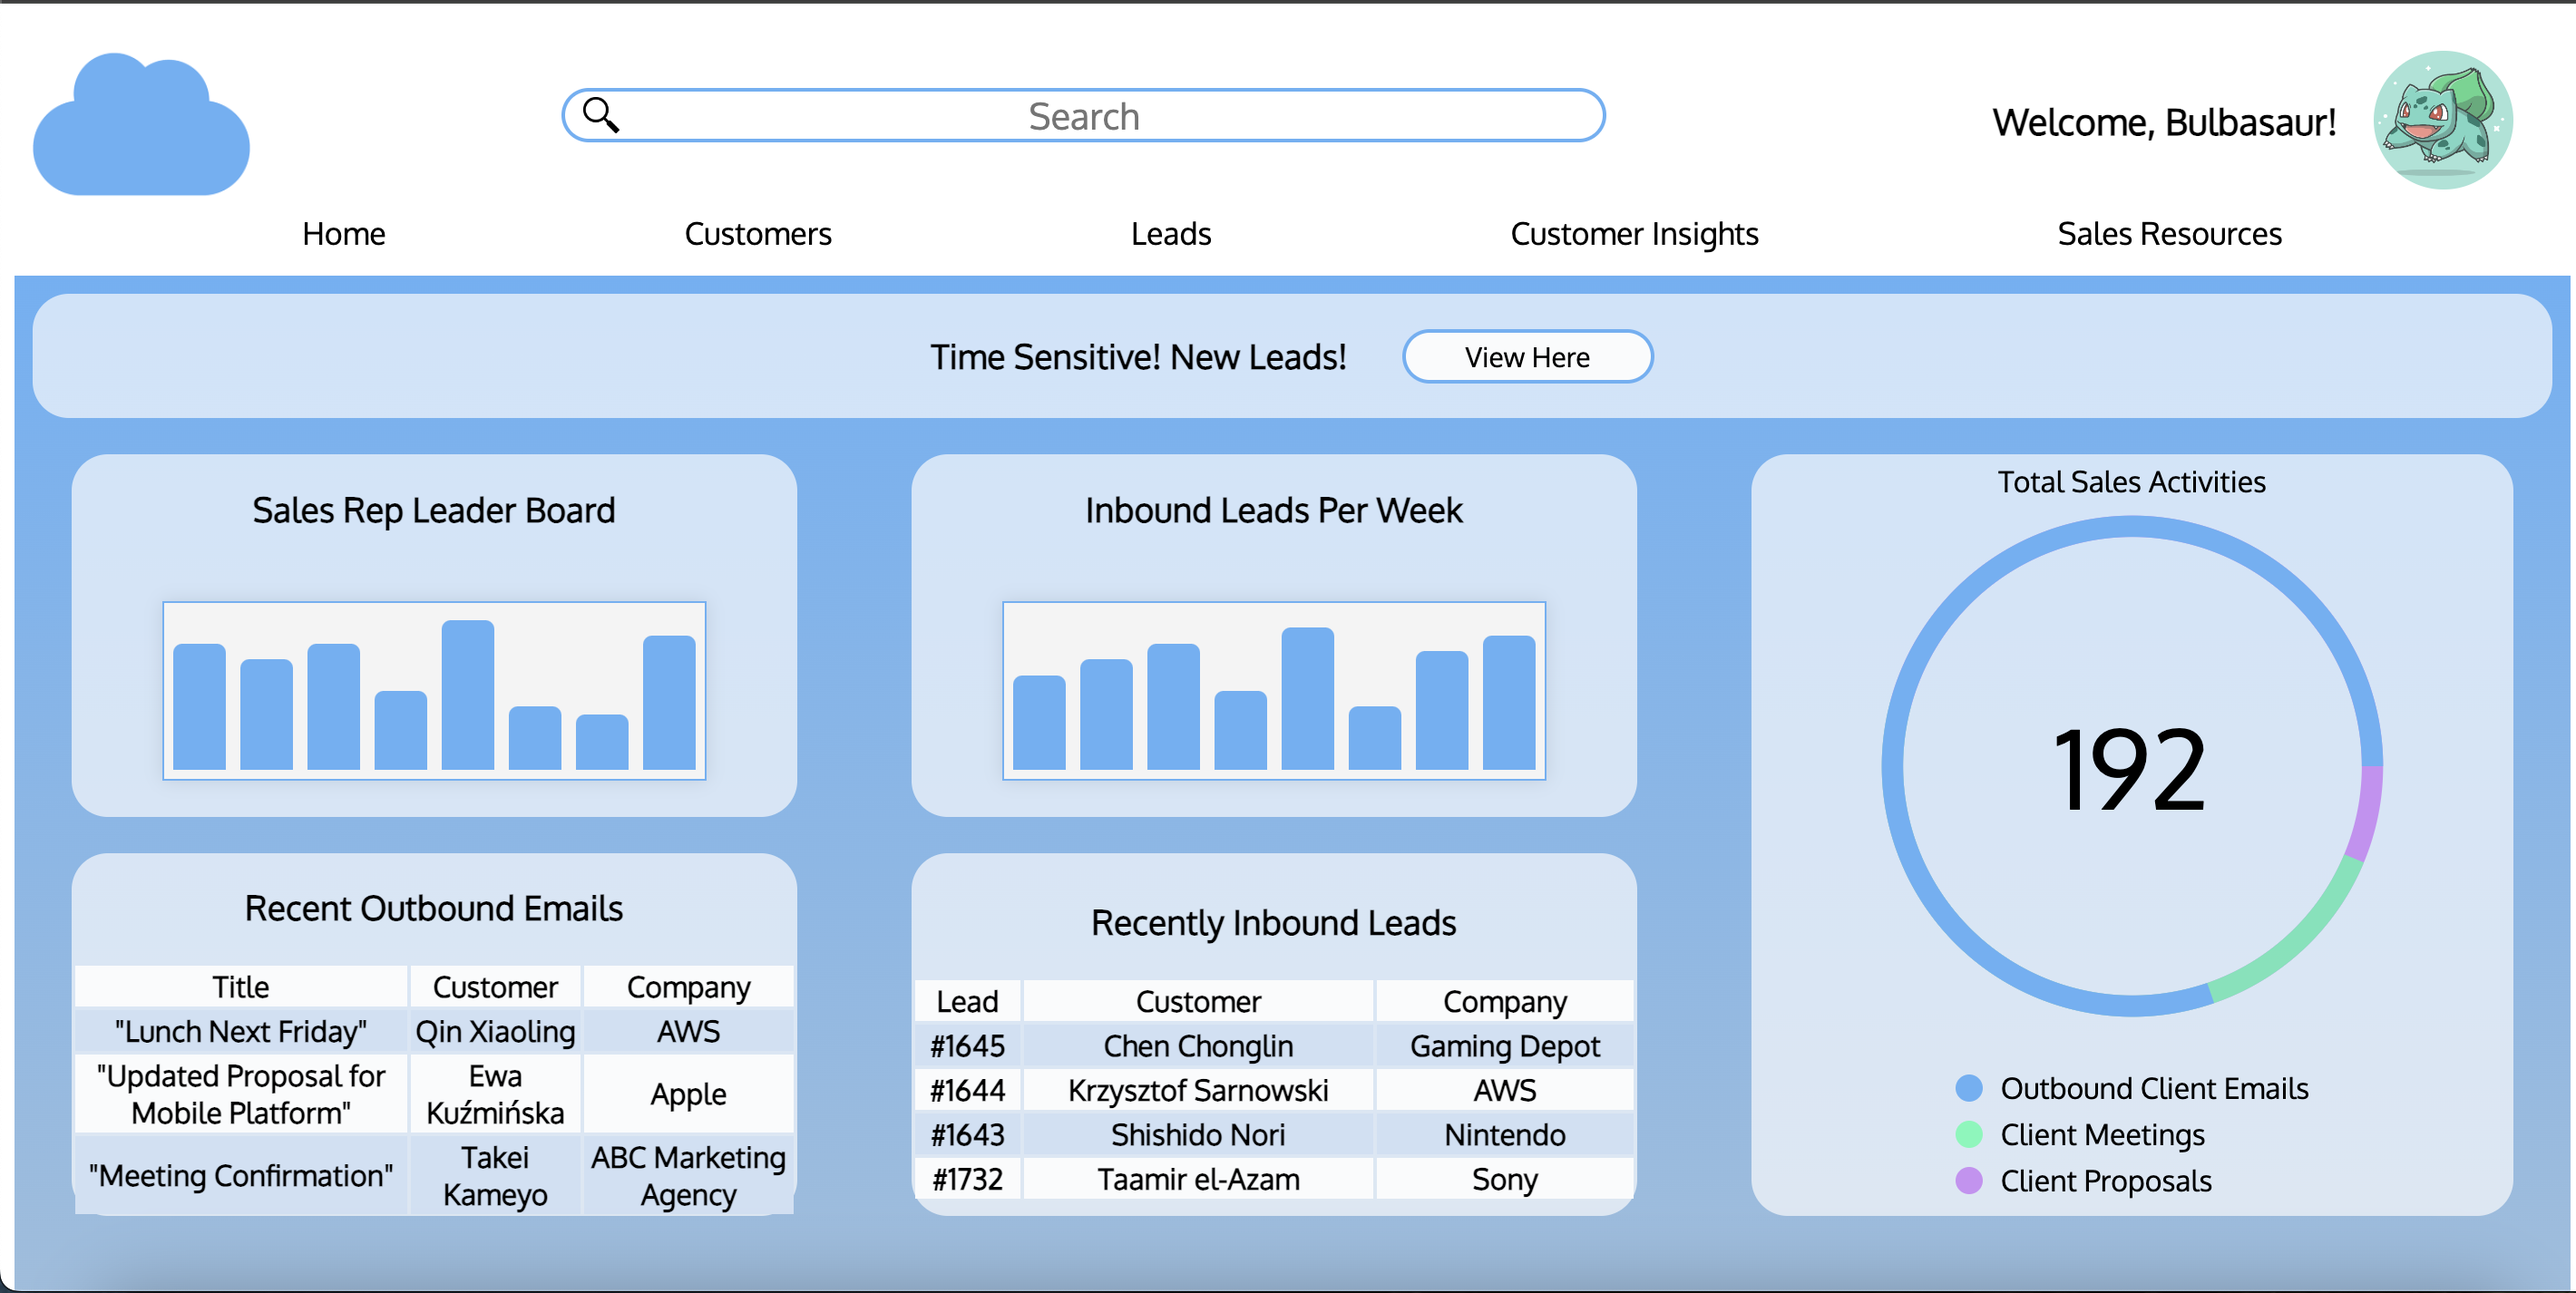
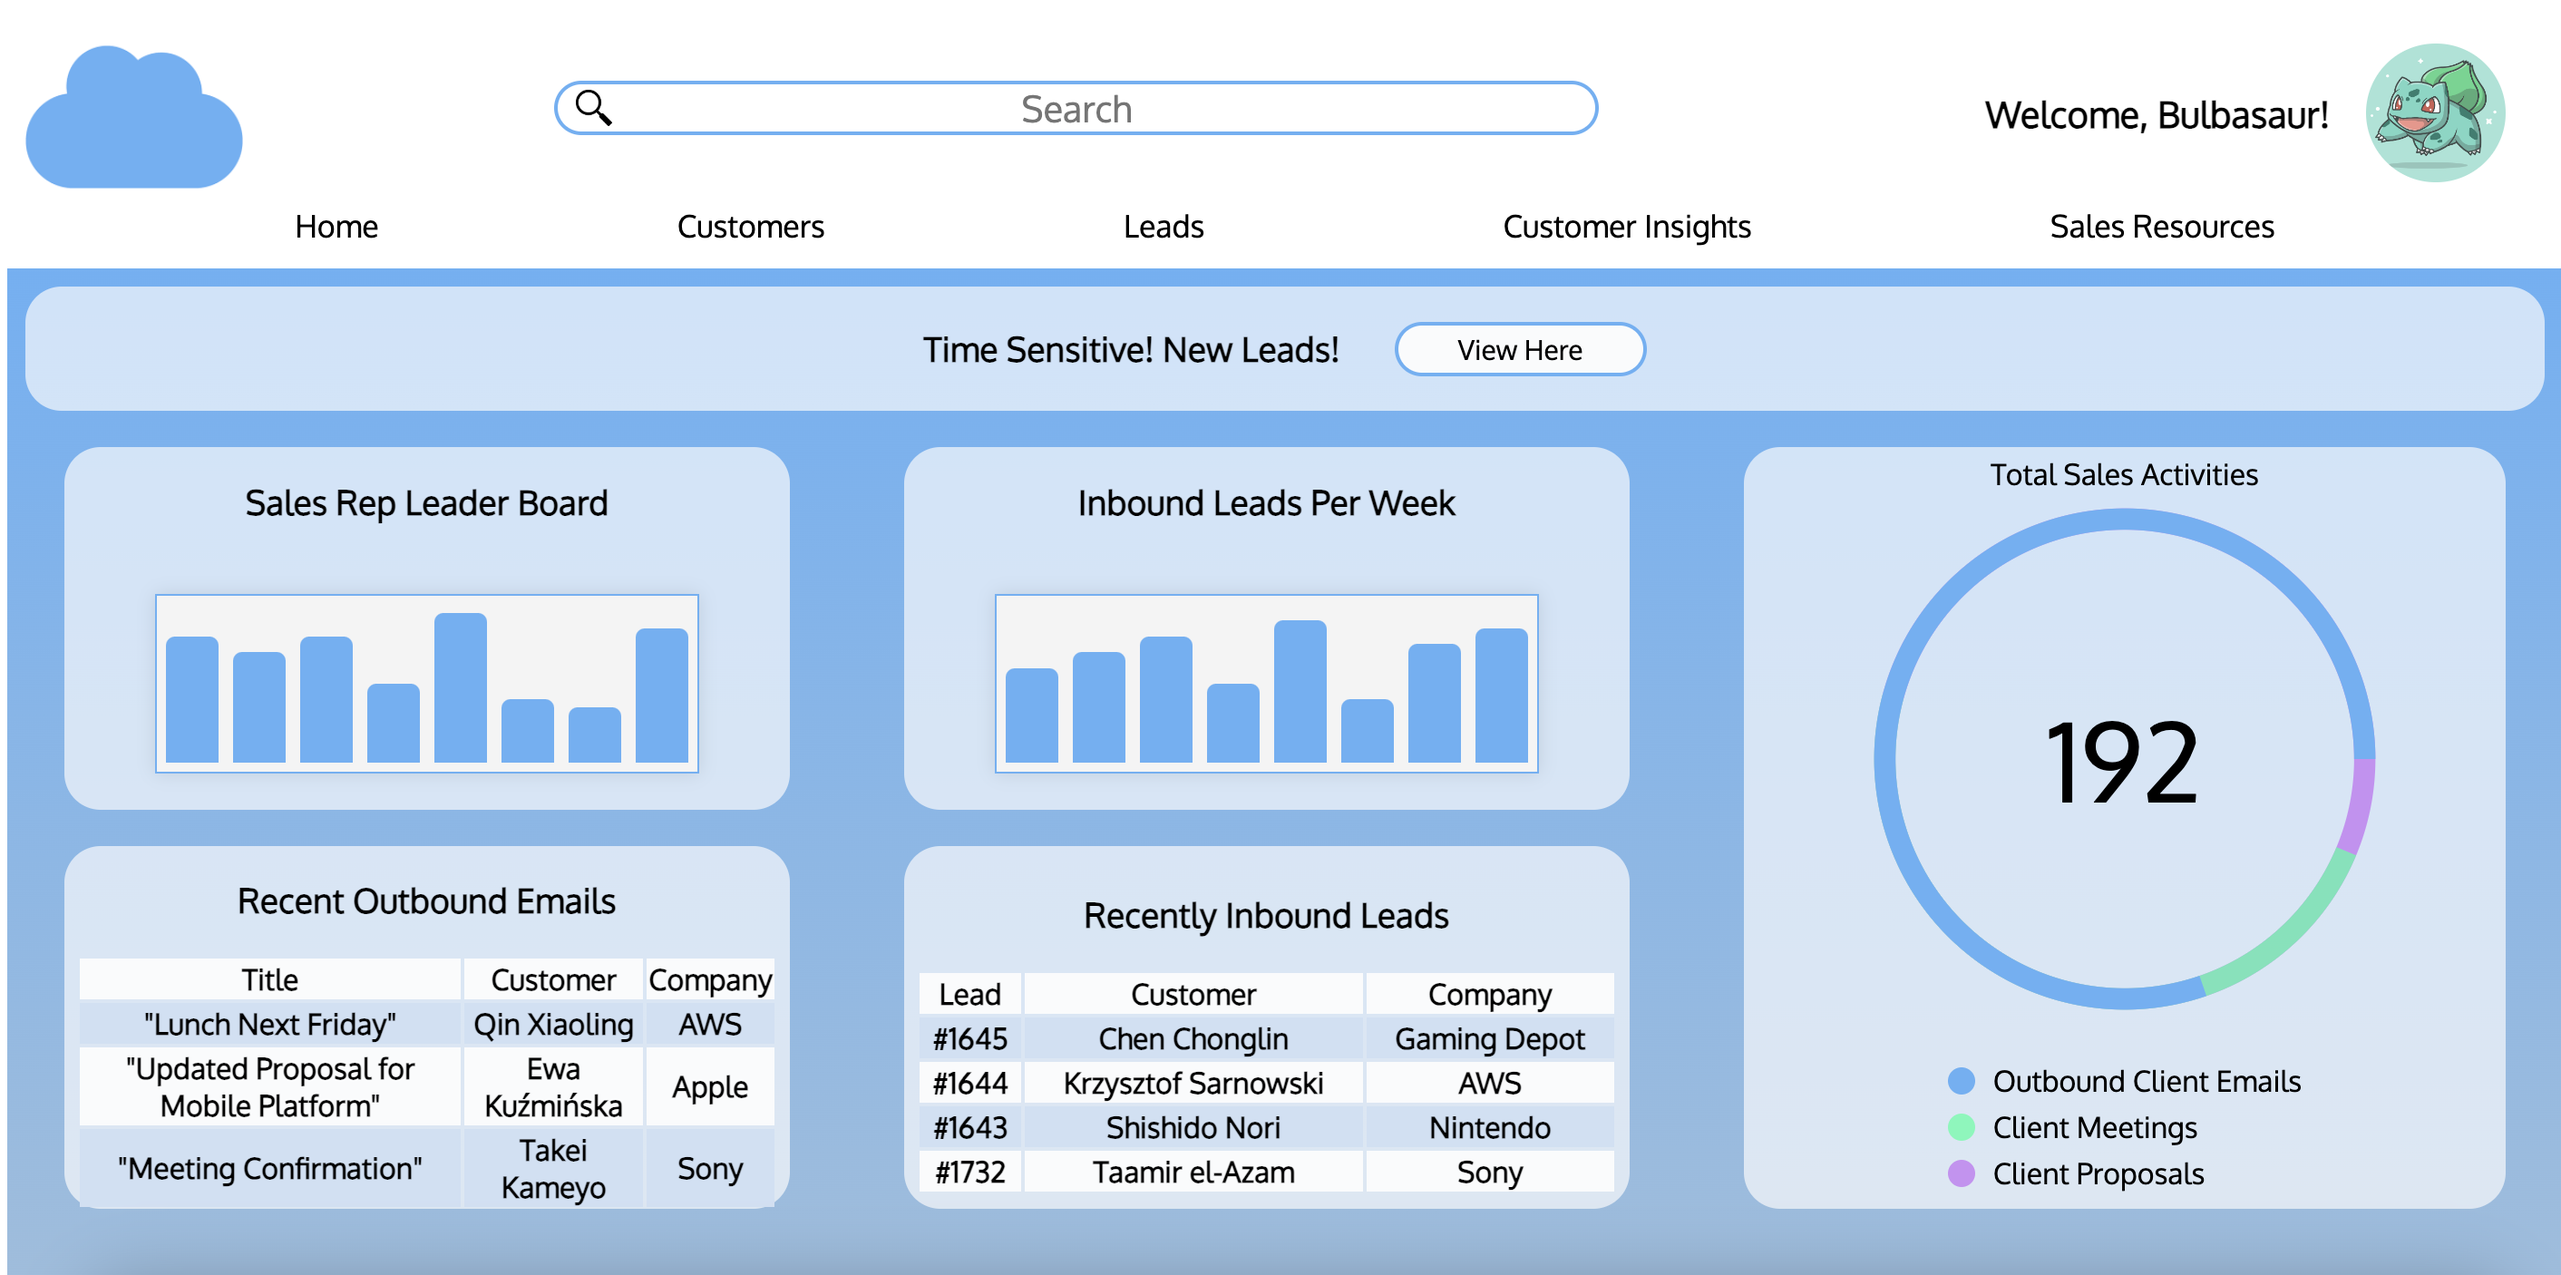
Fix table corner

diff --git a/sales/index.html b/sales/index.html
@@ -82,7 +82,7 @@
                             <tr class="dark">
                                 <th>"Meeting Confirmation"</th>
                                 <th>Takei Kameyo</th>
-                                <th>ABC Marketing Agency</th>
+                                <th>Sony</th>
                             </tr>
                         </table>
                     </div>

diff --git a/sales/style.css b/sales/style.css
@@ -177,8 +177,11 @@
 
 .resolved-tickets-table,
 .new-tickets-table {
-    width: 400px;
-    
+    width: 387px;
+}
+
+table {
+    border-radius: 20px;
 }
 
 .dark {
